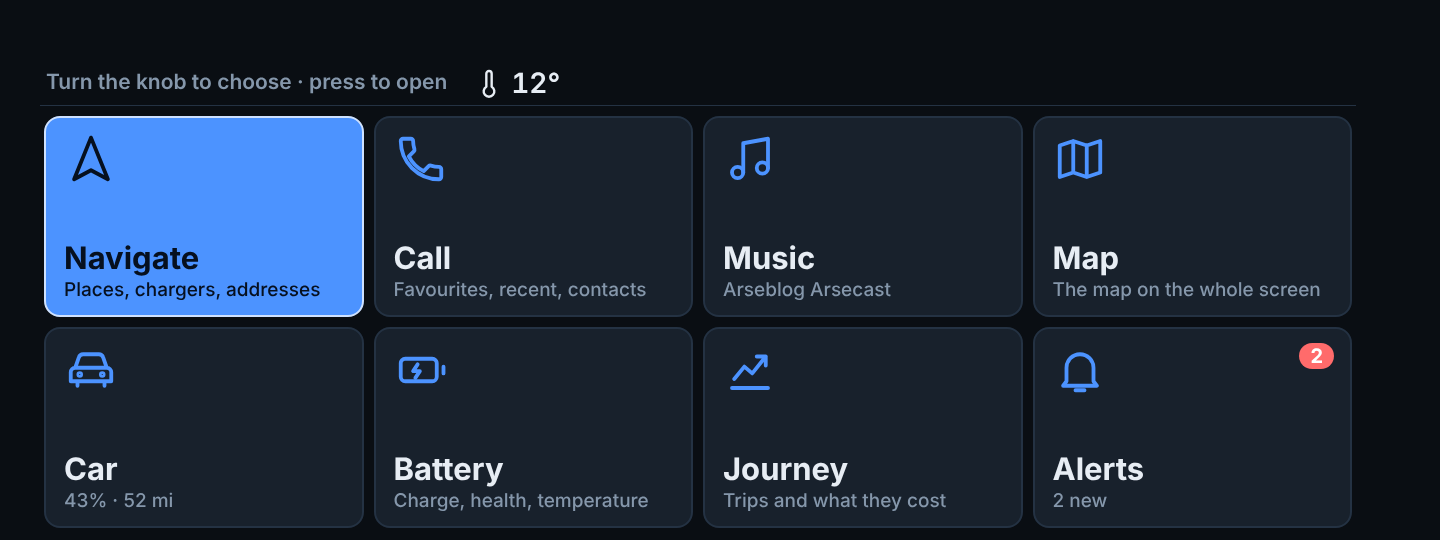
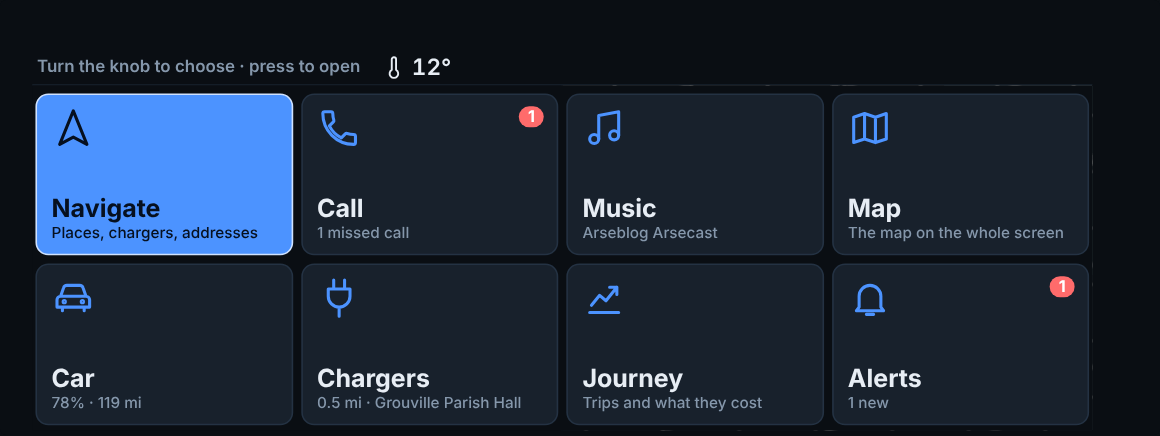
Chargers replaces Battery: nearest charging points with a press to drive there
Battery temperature, 12 V battery and energy left move to Car colour and info.

Claude-Session: https://claude.ai/code/session_012qQKmKQnTSeY3dbxDfNLy6

diff --git a/app/src/main/assets/i3dash/index.html b/app/src/main/assets/i3dash/index.html
@@ -252,7 +252,7 @@ window.i3feed=function(d){
 };
 
 /* ---------- pages, turned with the iDrive knob ---------- */
-const PAGES=['Car','Music','Call','Battery','Journey','Alerts','Map','Info'];let page=0,home=true,homeSel=0;
+const PAGES=['Car','Music','Call','Chargers','Journey','Alerts','Map','Info'];let page=0,home=true,homeSel=0;
 window.i3knob=function(dir){
   if(menu){menu.sel=Math.max(0,Math.min(menu.items.length-1,menu.sel+(dir>0?1:-1)));drawMenu();menuAlive();return}
   if(home){homeSel=Math.max(0,Math.min(CARDS.length-1,homeSel+(dir>0?1:-1)));drawHome();return}
@@ -269,24 +269,19 @@ function showPage(){
   drawPanel();drawNowPlaying();drawHome();
 }
 // the line at the top of every section: its name, and what the knob does there
-const TITLES={Info:'Car colour and info',Alerts:'Phone alerts',Journey:'Journeys and costs',Battery:'Battery'};
-function hasOptions(){const p=PAGES[page];return !!D.call||p==='Music'||p==='Map'||p==='Call'||p==='Car'||p==='Info'||(p==='Alerts'&&(D.notes||[]).length>0)}
+const TITLES={Info:'Car colour and info',Alerts:'Phone alerts',Journey:'Journeys and costs',Chargers:'Chargers nearby'};
+function hasOptions(){const p=PAGES[page];return !!D.call||p==='Music'||p==='Map'||p==='Call'||p==='Car'||p==='Info'||(p==='Chargers'&&chargers.length>0)||(p==='Alerts'&&(D.notes||[]).length>0)}
 function drawTitle(){const p=PAGES[page];H('#tabs',`<b>${TITLES[p]||p}</b><span><i>Press the knob</i> for ${hasOptions()?'options and Home':'the Home screen'}</span>`)}
 // the car is under way: message text stays off the screen and long lists get shorter
 const moving=()=>(D.speedKmh||0)>3;
 const MOVING_ROWS=12;
 function drawPanel(){
   const p=PAGES[page],el={set innerHTML(v){H('#panel',v)}};
-  if(p==='Battery'){
-    el.innerHTML=`<div class="frost"><h2>High-voltage battery</h2><dl class="kv">
-      <dt>Charge</dt><dd>${f(D.soc,1)}%</dd>
-      <dt>Energy left (est.)</dt><dd>${f(D.soc!=null?D.soc/100*USABLE_KWH:null,1)} kWh</dd>
-      <dt>Range (car estimate)</dt><dd>${D.rangeKm!=null?f(D.rangeKm)+' '+du():'--'}</dd>
-      <dt>Battery temperature</dt><dd>${D.batteryC!=null?f(temp(D.batteryC))+' '+tu():'--'}</dd>
-      <dt>12 V battery</dt><dd>${D.battery12v!=null?f(D.battery12v)+'%':'--'}</dd>
-      <dt>Nearest charger (approx.)</dt><dd>${(()=>{const n=nearestCharger();return n?esc(fmtD(n.d*1.25))+' · '+esc(n.c.name.slice(0,18)):'--'})()}</dd>
-      <dt>Odometer</dt><dd>${D.odoKm!=null?Math.round(dist(D.odoKm)).toLocaleString()+' '+du():'--'}</dd></dl>
-      </div>`;
+  if(p==='Chargers'){
+    const near=nearChargers(5);
+    const rows=near.length?near.map(n=>`<div class="al-row" style="display:flex;justify-content:space-between;align-items:baseline;gap:10px"><div class="al-t">${esc(n.c.name)}</div><div class="al-app" style="white-space:nowrap">${esc(fmtD(n.d*1.25))}${n.c.info?' · '+esc(n.c.info):''}</div></div>`).join(''):
+      `<div style="color:#c3cfdb;font-size:20px">${pos?'Looking for charging points nearby…':'Waiting for the car\'s position.'}</div>`;
+    el.innerHTML=`<div class="frost"><h2>Chargers nearby</h2><div class="al">${rows}</div><div class="hint">${near.length?'<b style="color:var(--accent)">Press the knob</b> to drive to one · ':''}${D.soc!=null?f(D.soc)+'% in the battery':''}</div></div>`;
   }else if(p==='Journey'){
     const all=trips.slice();if(J&&J.km>0.3)all.unshift({start:J.start,km:J.km,kwh:J.kwh,now:true});
     const now=Date.now(),day=864e5,midnight=new Date().setHours(0,0,0,0);
@@ -328,7 +323,7 @@ function drawPanel(){
     const b=Math.floor(paint/4)%9,e=paint%4;
     el.innerHTML=`<div class="frost" style="backdrop-filter:none;-webkit-backdrop-filter:none;background:linear-gradient(180deg,rgba(10,14,19,0) 50%,rgba(10,14,19,1) 64%);justify-content:flex-end">
       <h2>${PAINT_NAMES[b]}</h2><div style="color:#c3cfdb">${BELT_NAMES[e]} bonnet &amp; roof</div>
-      <dl class="kv" style="font-size:20px;margin-top:4px"><dt>Music access</dt><dd>${D.mediaPermission===false?'Not allowed':'On'}</dd><dt>Usable battery</dt><dd>${USABLE_KWH} kWh</dd><dt>Tyres (bar)</dt><dd style="font-size:17px">${esc(tyreInfo())}</dd></dl>
+      <dl class="kv" style="font-size:20px;margin-top:4px"><dt>Energy left (est.)</dt><dd>${f(D.soc!=null?D.soc/100*USABLE_KWH:null,1)} of ${USABLE_KWH} kWh</dd><dt>Battery temperature</dt><dd>${D.batteryC!=null?f(temp(D.batteryC))+' '+tu():'--'}</dd><dt>12 V battery</dt><dd>${D.battery12v!=null?f(D.battery12v)+'%':'--'}</dd>${/^no /i.test(tyreInfo())?'':`<dt>Tyres (bar)</dt><dd style="font-size:17px">${esc(tyreInfo())}</dd>`}</dl>
       <div class="hint" style="margin-top:6px;font-size:15px;color:#c3cfdb">Turn the knob to change colour · press for Home</div></div>`;
   }else el.innerHTML='';
 }
@@ -428,7 +423,8 @@ async function fetchChargers(){
   try{
     const q='[out:json][timeout:15];node["amenity"="charging_station"](around:20000,'+pos[1].toFixed(4)+','+pos[0].toFixed(4)+');out body 80;';
     const j=await (await fetch('https://overpass-api.de/api/interpreter?data='+encodeURIComponent(q))).json();
-    chargers=(j.elements||[]).map(e=>({lon:e.lon,lat:e.lat,name:(e.tags&&(e.tags.name||e.tags.operator||e.tags.network))||'Charging point'}));
+    chargers=(j.elements||[]).map(e=>{const t=e.tags||{},n=parseInt(t.capacity,10);
+      return {lon:e.lon,lat:e.lat,name:t.name||t.operator||t.network||'Charging point',info:n>0?n+(n>1?' points':' point'):''}});
     chgAt=pos;drawChargers();
   }catch(e){log('chargers: '+e.message)}
   chgBusy=false;
@@ -440,6 +436,19 @@ function drawChargers(){
     if(flat){if(chgLayer)chgLayer.clearLayers();else chgLayer=L.layerGroup().addTo(flat);
       chargers.forEach(c=>L.circleMarker([c.lat,c.lon],{radius:7,color:'#fff',weight:2,fillColor:'#19c37d',fillOpacity:1}).addTo(chgLayer))}
   }catch(e){log('draw chargers: '+e.message)}
+}
+// the closest charging points, nearest first, with the straight-line distance to each
+function nearChargers(count){
+  if(!pos)return [];
+  return chargers.map(c=>({c,d:hav(pos,[c.lon,c.lat])})).sort((a,b)=>a.d-b.d).slice(0,count);
+}
+function chargersMenu(){
+  const it=start(),first=it.length;
+  nearChargers(8).forEach(n=>it.push({label:n.c.name,note:fmtD(n.d*1.25),act(){goTo({lat:n.c.lat,lon:n.c.lon,name:n.c.name})}}));
+  if(it.length===first)it.push({label:'No charging points found yet',dim:1});
+  if(route)it.push({label:'Stop navigation',act(){stopNav();closeMenu()}});
+  it.push({label:'Close menu',act:closeMenu});
+  openMenu('Chargers',it,first);
 }
 function nearestCharger(){
   if(!pos||!chargers.length)return null;
@@ -527,6 +536,7 @@ function sectionMenu(){
   if(D.call&&(p==='Call'||!D.call.ongoing)){const it=start();it.push({label:'Close menu',act:closeMenu});openMenu(D.call.ongoing?'Phone call':'Incoming call',it,0);menu.call=true;return}
   if(p==='Music')musicMenu();else if(p==='Map')navMenu();else if(p==='Call')callMenu();
   else if(p==='Alerts'&&(D.notes||[]).length)alertsMenu();
+  else if(p==='Chargers'&&chargers.length)chargersMenu();
   else if(p==='Car'||p==='Info')carMenu();
   else if(D.call){const it=start();it.push({label:'Close menu',act:closeMenu});openMenu(TITLES[p]||p,it,it.length-2)}
   else goHome();
@@ -681,11 +691,11 @@ const ICON={
   Music:'<path d="M9 18V5l11-2v13"/><circle cx="6.5" cy="18" r="2.5"/><circle cx="17.5" cy="16" r="2.5"/>',
   Map:'<path d="M9 4L3 6v14l6-2 6 2 6-2V4l-6 2zM9 4v14M15 6v14"/>',
   Car:'<path d="M5 11l1.6-4.6A2 2 0 0 1 8.5 5h7a2 2 0 0 1 1.9 1.4L19 11M3 17v-4a2 2 0 0 1 2-2h14a2 2 0 0 1 2 2v4M6 17v2M18 17v2M3 17h18"/><circle cx="7" cy="14" r=".6"/><circle cx="17" cy="14" r=".6"/>',
-  Battery:'<rect x="3" y="7" width="16" height="10" rx="2"/><path d="M22 10.5v3M10.5 9.5l-2 3h3l-2 3"/>',
+  Chargers:'<path d="M9 2v5M15 2v5M6 7h12v4a6 6 0 0 1-12 0zM12 17v5"/>',
   Journey:'<path d="M4 20h16M5 16l4.5-5.5 3.5 3L19 6M15 6h4v4"/>',
   Alerts:'<path d="M6 17V11a6 6 0 0 1 12 0v6l1.5 2h-15zM10 21h4"/>'
 };
-const CARDS=['Navigate','Call','Music','Map','Car','Battery','Journey','Alerts'];
+const CARDS=['Navigate','Call','Music','Map','Car','Chargers','Journey','Alerts'];
 function cardLine(k){
   const m=D.media,c=D.call,n=(D.notes||[]).length;
   if(k==='Navigate')return route?'Route running · '+($('#eArr').textContent!=='--'?'arrive '+$('#eArr').textContent:'press to change'):'Places, chargers, addresses';
@@ -693,7 +703,7 @@ function cardLine(k){
   if(k==='Music')return m&&m.title?m.title:'Choose something to play';
   if(k==='Map')return 'The map on the whole screen';
   if(k==='Car')return (D.soc!=null?f(D.soc)+'% · ':'')+(D.rangeKm!=null?f(D.rangeKm)+(miles?' mi':' km'):'Range and trip');
-  if(k==='Battery')return 'Charge, health, temperature';
+  if(k==='Chargers'){const n=nearestCharger();return n?fmtD(n.d*1.25)+' · '+n.c.name:'Charging points nearby'}
   if(k==='Journey')return 'Trips and what they cost';
   return n?n+' new':'Nothing new';
 }
@@ -710,7 +720,7 @@ function drawHome(){
 }
 function openCard(k){
   home=false;page=PAGES.indexOf(k==='Navigate'?'Map':k);showPage();
-  if(D.call&&k==='Call')sectionMenu();else if(k==='Navigate')navMenu();else if(k==='Call')callMenu();else if(k==='Music'&&!(D.media&&D.media.title))musicMenu();
+  if(D.call&&k==='Call')sectionMenu();else if(k==='Navigate')navMenu();else if(k==='Call')callMenu();else if(k==='Chargers'&&chargers.length)chargersMenu();else if(k==='Music'&&!(D.media&&D.media.title))musicMenu();
 }
 window.i3hidden=function(){closeMenu()};
 setWxIcon();
@@ -735,7 +745,7 @@ function render(){
   H('#jEff',sm(k?(miles?f(k*MI,1):f(100/k,1)):'--',miles?'mi/kWh':'kWh/100'));
   H('#jAvg',D.avgConsumption!=null?sm(f(D.avgConsumption,1),/MI/i.test(String(D.avgConsumptionUnit))?'mi/kWh':'kWh/100'):'--');
   T('#wx',D.ambientC!=null?f(temp(D.ambientC))+'°':'--');
-  if(PAGES[page]==='Battery'||PAGES[page]==='Music'||PAGES[page]==='Info'||PAGES[page]==='Alerts')drawPanel();
+  if(PAGES[page]==='Chargers'||PAGES[page]==='Music'||PAGES[page]==='Info'||PAGES[page]==='Alerts')drawPanel();
   drawHome();
   drawNowPlaying();
 }

diff --git a/tools/simulator/engine-top.js b/tools/simulator/engine-top.js
@@ -29,7 +29,7 @@ window.fetch=async function(u){u=String(u);
       {distance:d2,name:'La Grande Route de Faldouet',maneuver:{type:'turn',modifier:north===east?'right':'left'}},
       {distance:0,name:'',maneuver:{type:'arrive'}}]}]}]})}
   if(u.includes('open-meteo'))return ok({current:{weather_code:2,is_day:1}});
-  if(u.includes('overpass')){const q=decodeURIComponent(u);return ok({elements:q.includes('charging')?[{lat:sim.lat+0.012,lon:sim.lon+0.01,tags:{name:'Gorey Pier charger'}}]:[]})}
+  if(u.includes('overpass')){const q=decodeURIComponent(u);return ok({elements:q.includes('charging')?[{lat:sim.lat+0.012,lon:sim.lon+0.01,tags:{name:'Gorey Pier',capacity:'2'}},{lat:sim.lat-0.004,lon:sim.lon-0.006,tags:{name:'Grouville Parish Hall',capacity:'1'}},{lat:sim.lat+0.003,lon:sim.lon-0.07,tags:{operator:'Evolve',capacity:'6'}},{lat:sim.lat-0.01,lon:sim.lon-0.03,tags:{name:'Longueville Waitrose',capacity:'4'}},{lat:sim.lat+0.02,lon:sim.lon-0.09,tags:{name:'Sand Street car park',capacity:'8'}},{lat:sim.lat+0.04,lon:sim.lon-0.1,tags:{}}]:[]})}
   throw new Error('not loaded in the simulator');
 };
 const people=()=>sim.contacts?{contacts:EVERYONE.filter(p=>p.name==='Sarah'||p.name==='Mum'),everyone:EVERYONE,recentCalls:[{name:'Tom',number:'07700 900789',missed:sim.missed>0},{name:'Sarah',number:'+441534555010'},{name:'Garage (Bagot Road)',number:'01534 000111'},{name:'01534 000333',number:'01534 000333'}]}:{contacts:[],everyone:[],recentCalls:[]};

diff --git a/tools/simulator/engine-bottom.js b/tools/simulator/engine-bottom.js
@@ -32,7 +32,7 @@ function tick(){
   if(sim.music&&sim.playing&&sim.access)sim.posMs=(sim.posMs+dt*1000)%1800000;
   const t=TRACKS[sim.track],showMusic=sim.music&&sim.access;
   const call=sim.call?Object.assign({},sim.call,sim.access||sim.call.outgoing?{}:{name:''}):null;
-  window.i3feed({soc:sim.soc,rangeKm:Math.round(sim.soc*1.52),speedKmh:sim.speedKmh,units:'Miles,CELSIUS',ambientC:12,cabinC:19,torqueNm:sim.speedKmh>0?35:0,tariffP:28,odoKm:41230,
+  window.i3feed({soc:sim.soc,rangeKm:Math.round(sim.soc*1.52),speedKmh:sim.speedKmh,units:'Miles,CELSIUS',ambientC:12,cabinC:19,batteryC:17,battery12v:92,torqueNm:sim.speedKmh>0?35:0,tariffP:28,odoKm:41230,
     lat:sim.lat,lon:sim.lon,heading:sim.heading,mediaPermission:sim.access,
     media:showMusic?{title:t[0],artist:t[1],album:t[2],app:APPS[sim.app],playing:sim.playing,pos:sim.posMs,dur:1800000}:null,
     notes:sim.access?sim.notes:null,call:call,missed:sim.contacts?sim.missed:0,

diff --git a/README.md b/README.md
@@ -16,7 +16,7 @@ This is a personal fork of [AAIdrive](https://github.com/BimmerGestalt/AAIdrive)
 |---|---|
 | **Car** | Battery, speed, range, journey figures, tyre rings that colour only when a tyre is low, and the map. |
 | **Music** | Now playing with artwork from Spotify, Amazon Music, Apple Music or BBC Sounds. Pick another app or playlist from the car menu (see below). |
-| **Battery** | Charge, range and the nearest charger. |
+| **Chargers** | The nearest charging points with distance. Press the knob to drive to one. |
 | **Alerts** | Your recent phone notifications, newest first, with a count on the tab. |
 | **Journey** | Miles, cost and efficiency for today, 7 days and 30 days, a 14 day chart and recent trips. |
 | **Call** | Favourites, recent calls and all your contacts, dialled from the knob. |
@@ -59,7 +59,7 @@ If it sits on "waiting for car connection", close the BMW Connected app, restart
 
 ## Using it in the car
 
-i3D opens on a home screen with a card for each part: Navigate, Call, Music, Map, Car, Battery, Journey and Alerts. Turn the iDrive knob to choose a card and press to open it.
+i3D opens on a home screen with a card for each part: Navigate, Call, Music, Map, Car, Chargers, Journey and Alerts. Turn the iDrive knob to choose a card and press to open it.
 
 ![Home screen](docs/screenshots/home.png)
 
@@ -67,7 +67,7 @@ Each section shows its name at the top, with no row of buttons. Press the knob f
 
 ![The Navigate list beside the map](docs/screenshots/menu-nav.png)
 
-- **‹ Home screen** starts every list, so you can always get back to the cards. Battery and Journey have nothing to choose, so one press there goes straight home.
+- **‹ Home screen** starts every list, so you can always get back to the cards. Journey has nothing to choose, so one press there goes straight home.
 - **Navigate** and **Map**: saved places, the nearest charger, recent places, or **Type a place** on the car's letter wheel. Picking a result comes straight back to the dash.
 - **Call**: favourites, recent calls, **All contacts**, or type a name. If someone has more than one number, you pick which (Mobile, Work and so on) before it dials.
 - **Music**: pause, skip, or choose an app and one of its playlists. Videos you sent from the phone are here too, parked only.

diff --git a/CHANGELOG.md b/CHANGELOG.md
@@ -16,6 +16,7 @@ First batch of changes from comparing i3D with Android Auto and Apple CarPlay. N
 - **Home screen:** while a route is running, the next turn and arrival time show above the cards.
 - **Music:** Forward 30 seconds and Back 15 seconds, for podcasts.
 - The phone's setup list has a new item, "Voice and calendar".
+- **Chargers replaces Battery:** the Battery card has gone, because Car and Journey already cover it. Chargers lists the nearest charging points with distance and number of points, and a press drives to one. Battery temperature, 12 V battery and energy left moved to Car colour and info.
 
 ## 14 November 2026
 

diff --git a/docs/SCREENSHOTS.md b/docs/SCREENSHOTS.md
@@ -62,8 +62,9 @@ Name, number and running time. Press the knob to hang up.
 Press the knob to answer or decline.
 ![Incoming call](screenshots/call-ringing.png)
 
-### Battery
-![Battery section](screenshots/battery.png)
+### Chargers
+The nearest charging points. Press the knob to drive to one.
+![Chargers section](screenshots/chargers.png)
 
 ### Journey
 ![Journey section](screenshots/journey.png)
